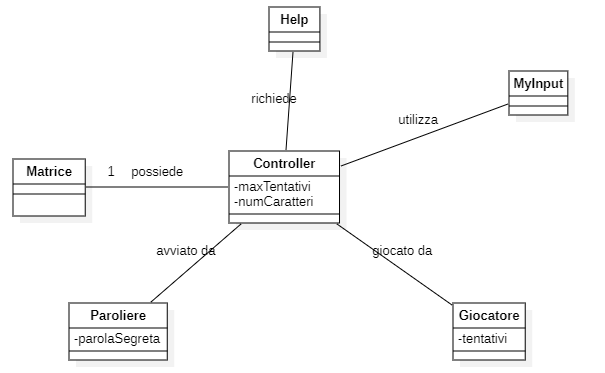
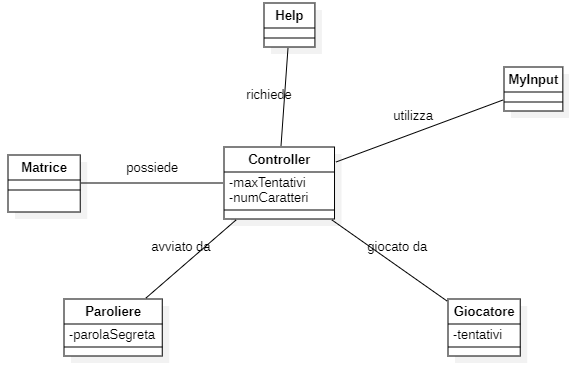
Integrazione relazione parte 1

Changed region(s): [[0.0, 0.0, 1.0, 0.9918], [0.0896, 0.7514, 0.2988, 0.9918]]

diff --git a/docs/Report.md b/docs/Report.md
@@ -185,3 +185,8 @@ La classe MyInput è stata progettata con l'obiettivo di semplificare le operazi
 
 - Esci
 <center><img src="./drawings/esci.png" alt="drawing" width="600"></center>
+
+## `Analisi Retrospettiva`
+
+### Sprint 1
+<center><img src="./drawings/Whiteboard.png" alt="drawing" width="600"></center>
